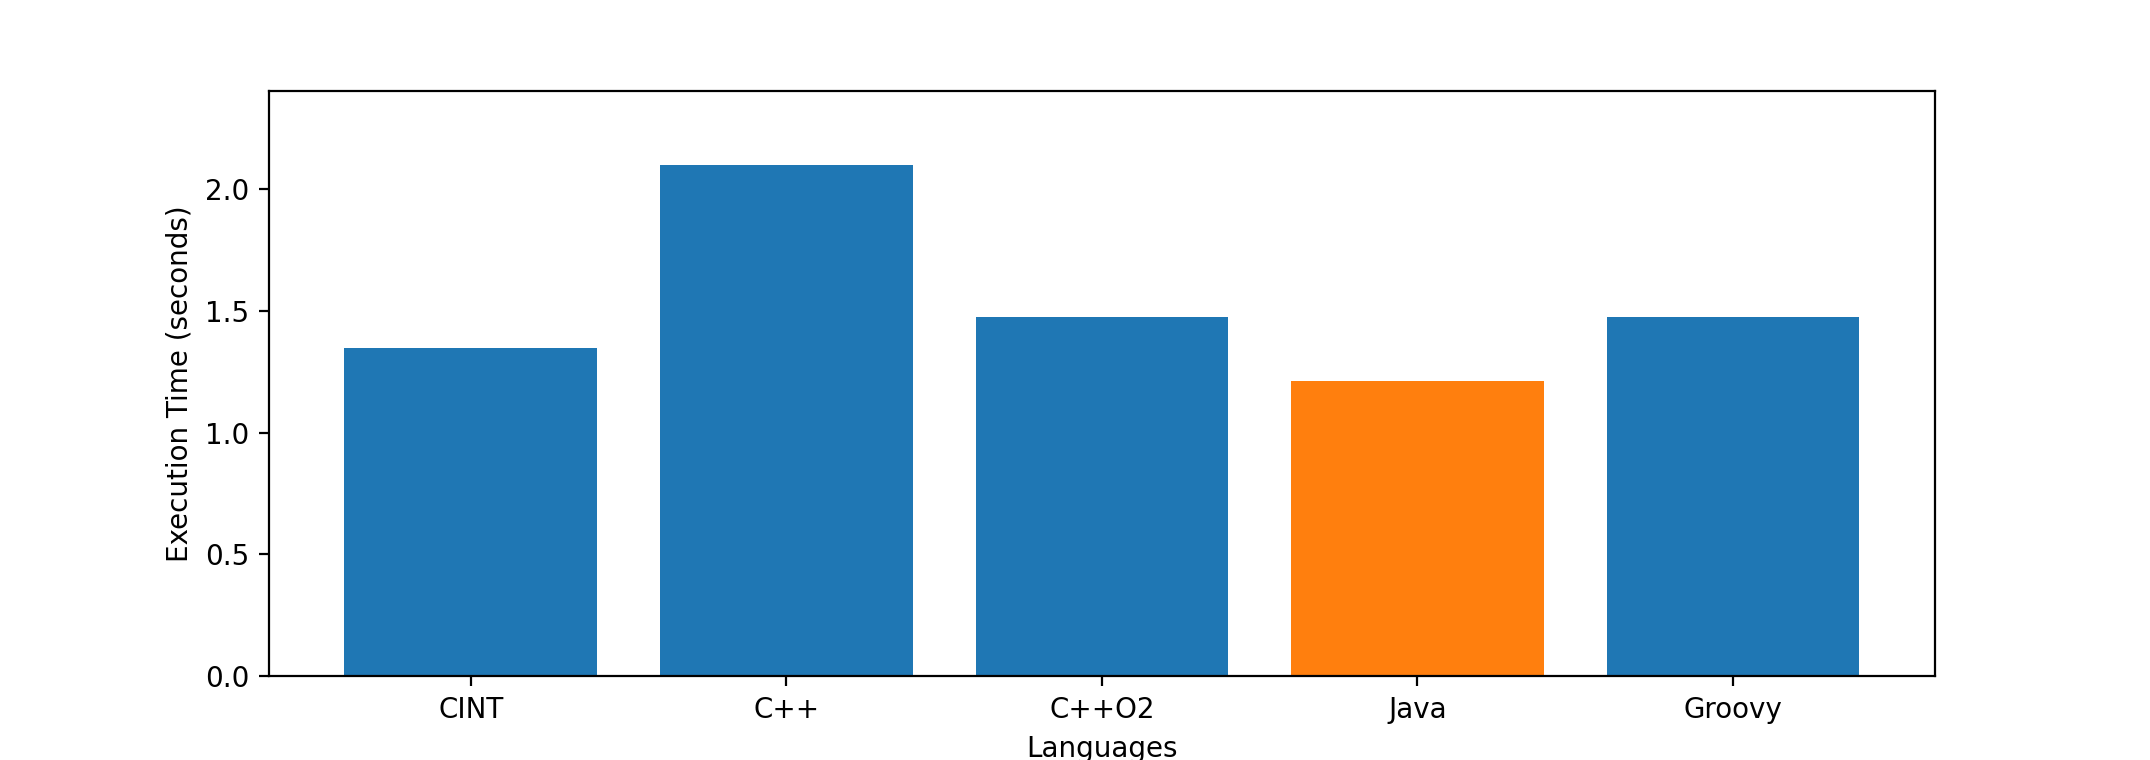
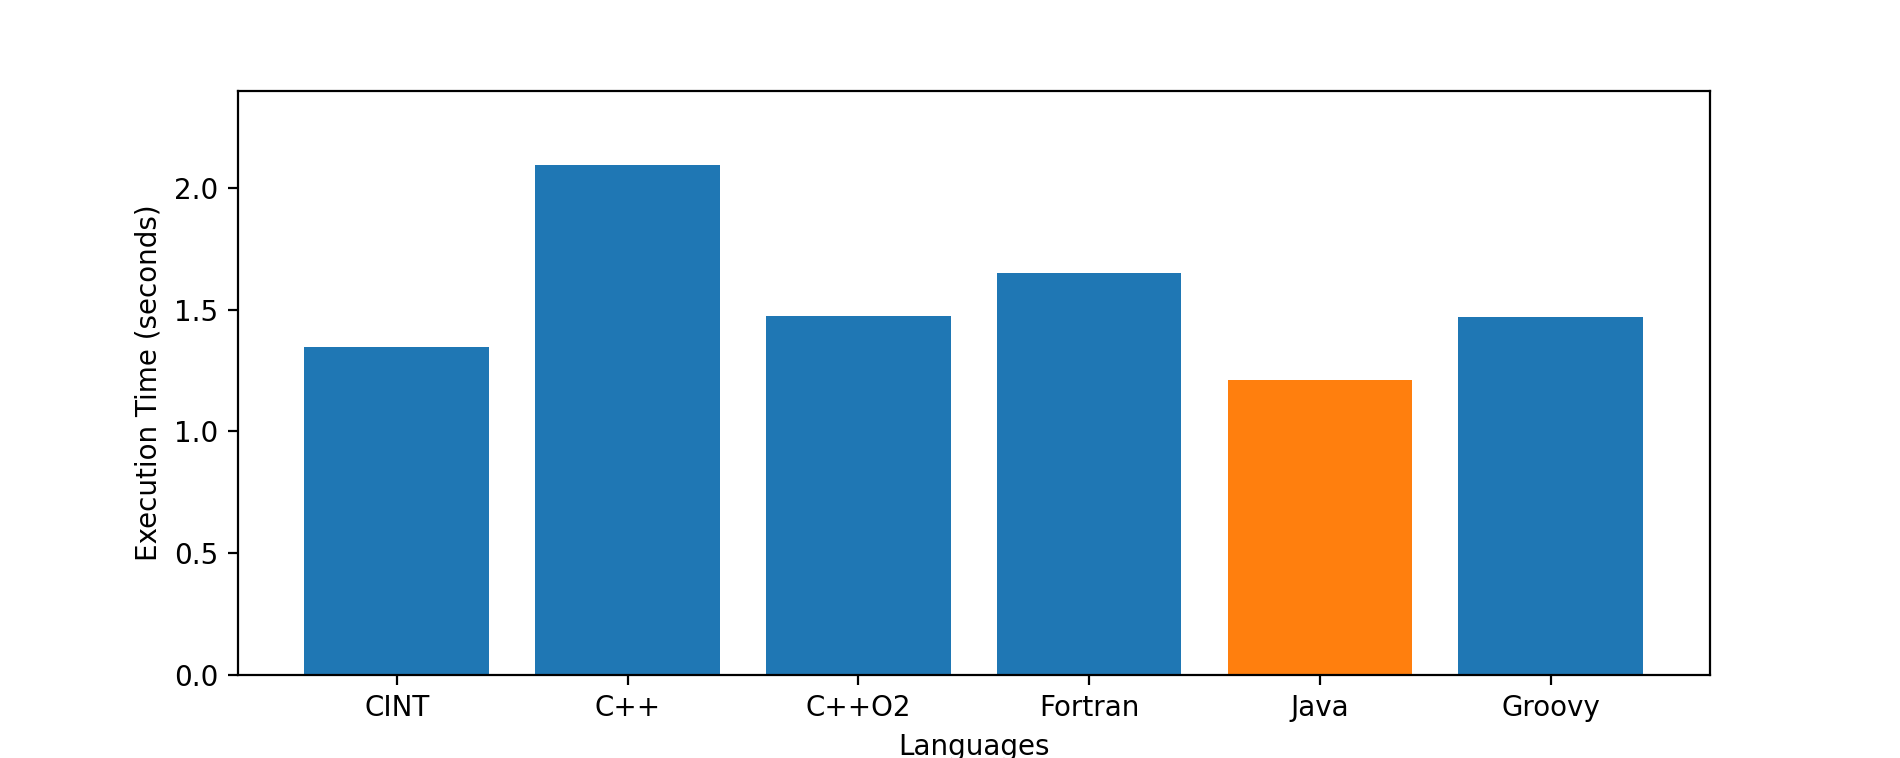
added a fortran benchmark code

diff --git a/results/piResults.py b/results/piResults.py
@@ -1,9 +1,9 @@
 import numpy as np
 import matplotlib.pyplot as plt
 
-xaxis = ["CINT","C++","C++O2","Java","Groovy"]
-data1 = [1.348, 2.096, 1.474, 0, 1.472]
-data2 = [0, 0, 0, 1.211, 0]
+xaxis = ["CINT","C++","C++O2","Fortran","Java","Groovy"]
+data1 = [1.348, 2.096, 1.474, 1.65, 0, 1.472]
+data2 = [0, 0, 0, 0.0, 1.211, 0]
 plt.ylim(0.0, 2.4)
 plt.xlabel("Languages")
 plt.ylabel("Execution Time (seconds)")
